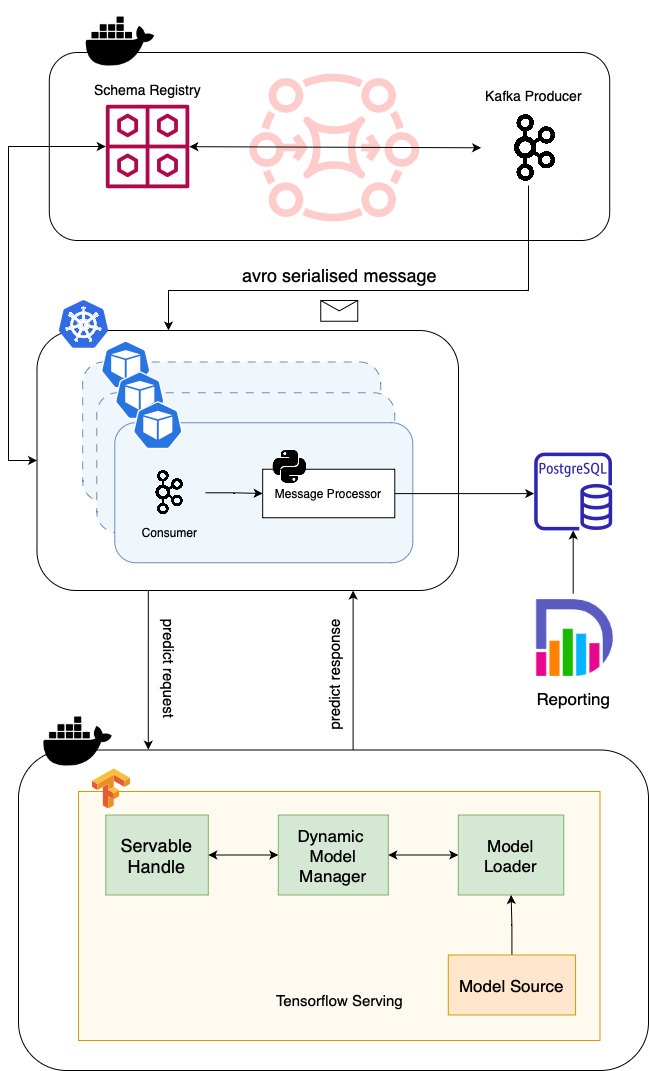
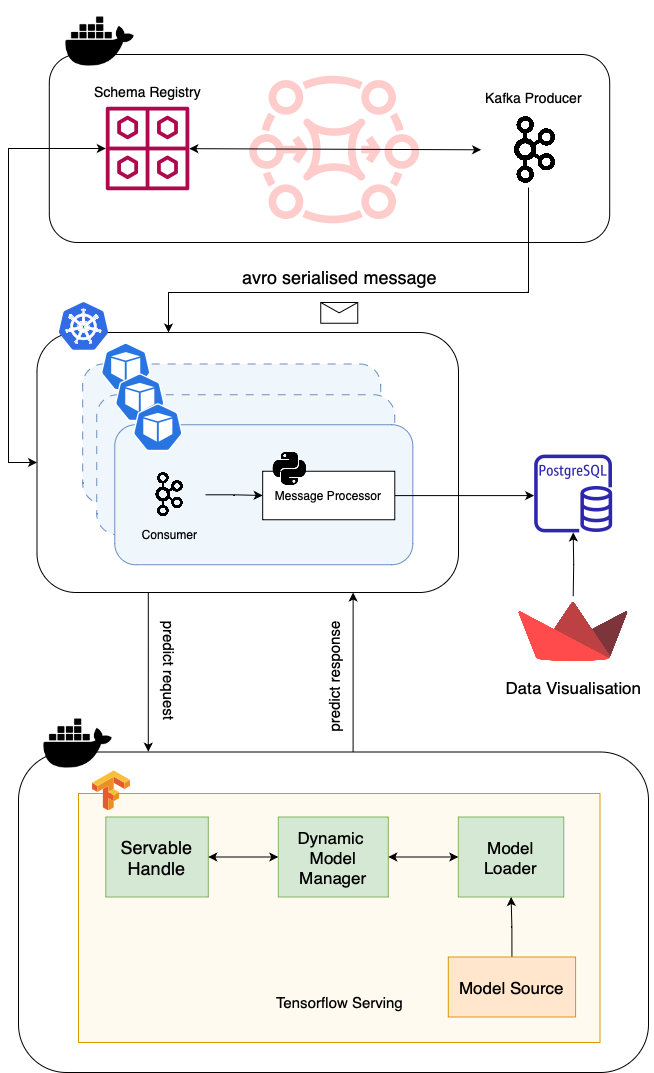
updated doc

diff --git a/README.md b/README.md
@@ -38,3 +38,8 @@ INFO:root: Attempting to communicate with tfserver...
 WARNING:root: Potential anomaly detected: 
 ... {{ message }}
 ```
+
+### dashboard app - streamlit / streamlit
+```
+streamlit run app.py --server.port 8502
+```
